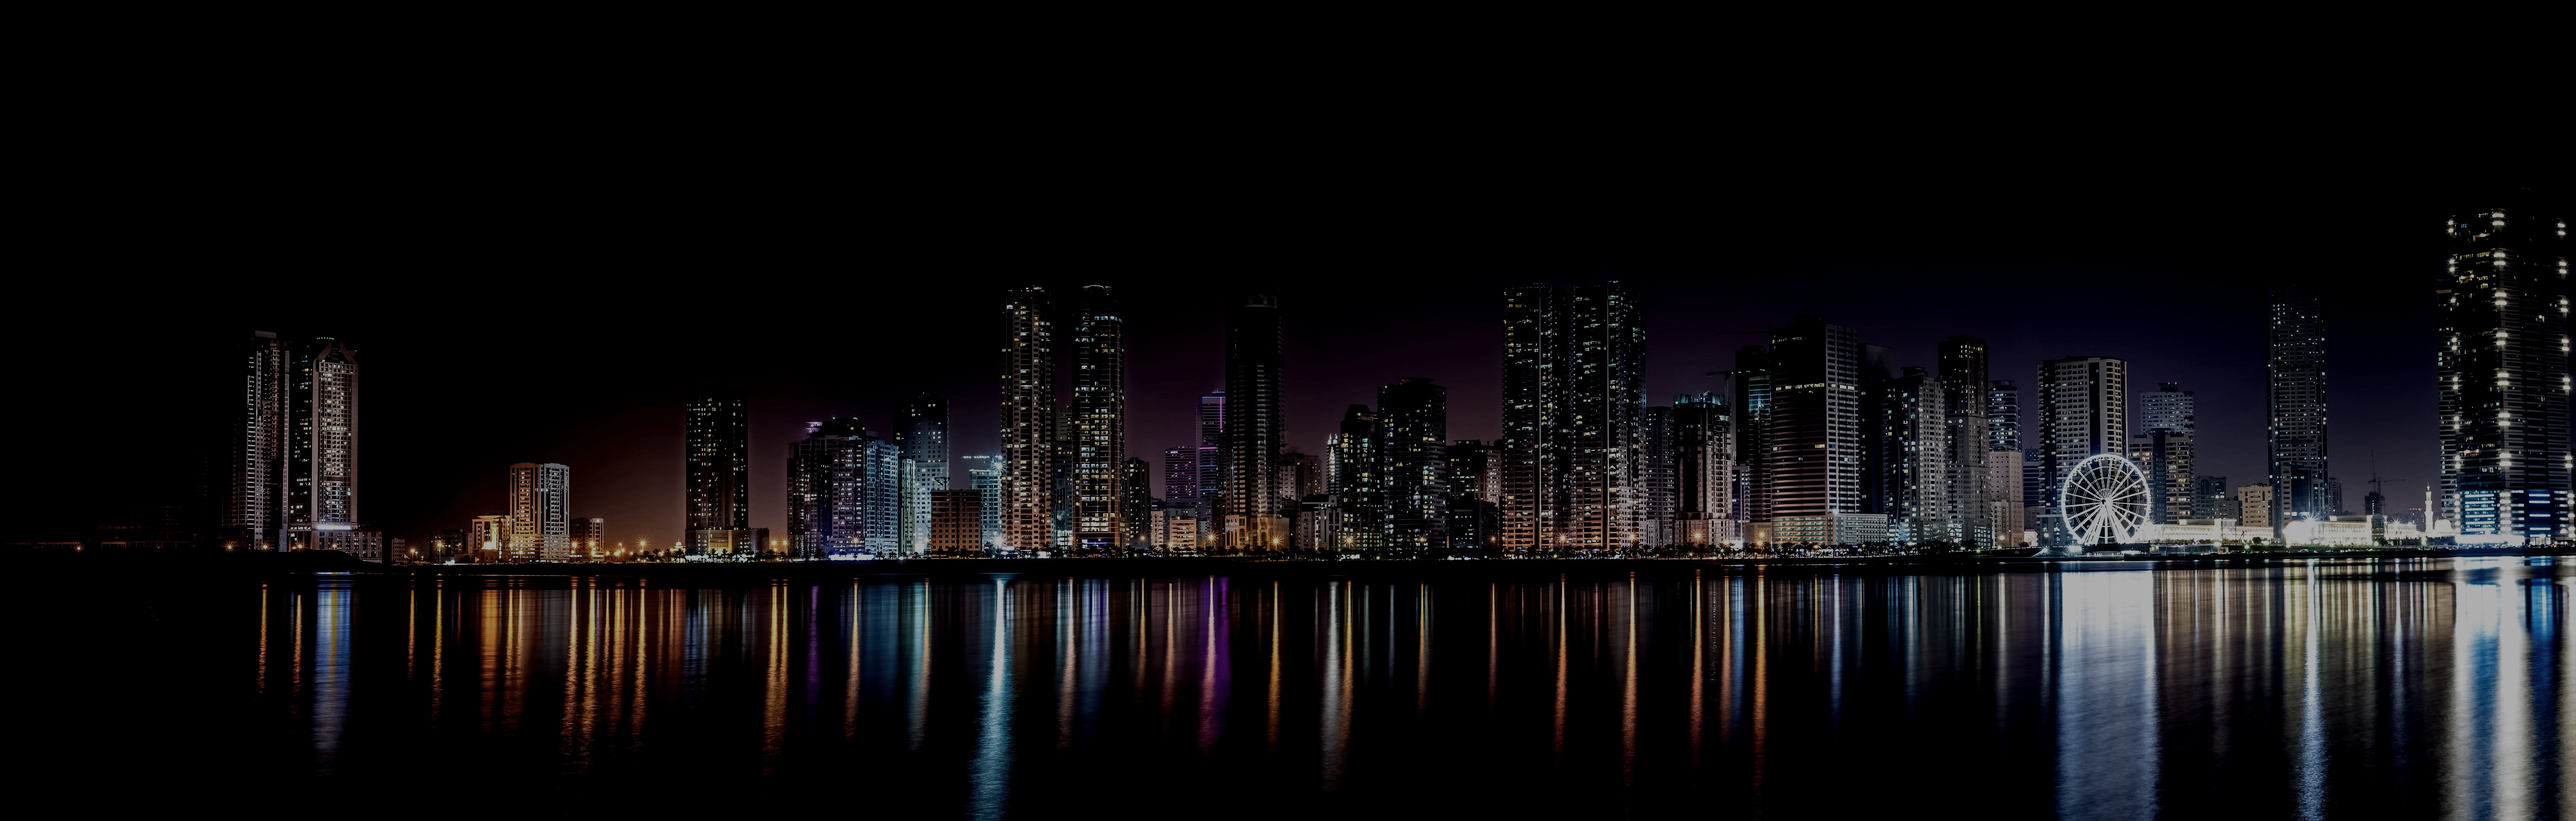
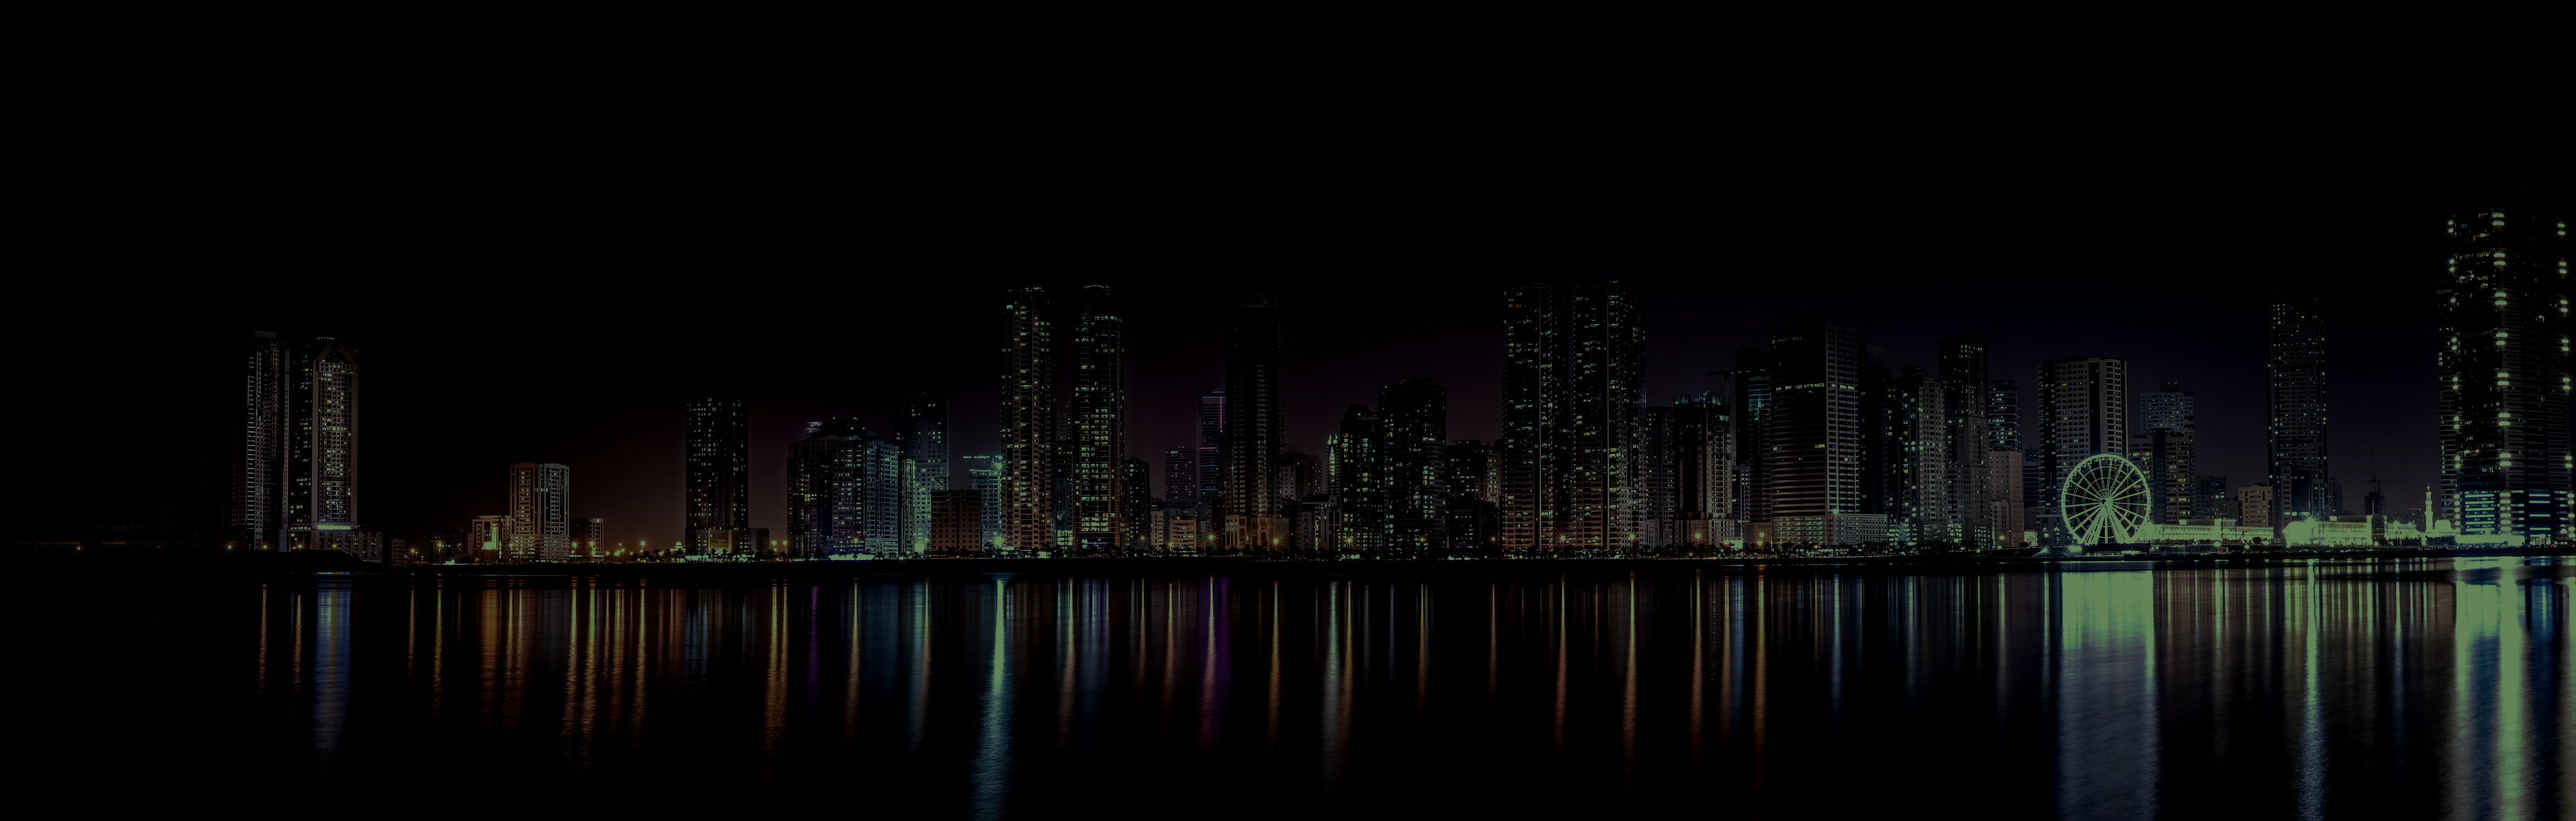
Edit the background imgs, add a background image to the footer

Changed region(s): [[0.0933, 0.3694, 1.0, 1.0], [0.9327, 0.3079, 1.0, 0.3694], [0.3731, 0.4002, 0.4353, 0.431]]

diff --git a/template2.html b/template2.html
@@ -76,13 +76,14 @@
     <section id="contact">
             <div class="wrapper">Contact</div>
     </section>
-    <footer></footer>
-<div id="copyright">
-        Copyright © 2009 - 2018 - All Rights Reserved - Domain Name
-        <br />
-        <br />
-        Template by Marcin Fortuna, inspired by http://www.free-css.com/free-css-templates/page224/tajam
-</div>
+    <footer>
+        <div id="copyright">
+            Copyright © 2009 - 2018 - All Rights Reserved - Domain Name
+            <br />
+            <br />
+            Template by Marcin Fortuna, inspired by http://www.free-css.com/free-css-templates/page224/tajam
+        </div>
+    </footer>
 <script src="https://code.jquery.com/jquery-3.2.1.slim.min.js" integrity="sha384-KJ3o2DKtIkvYIK3UENzmM7KCkRr/rE9/Qpg6aAZGJwFDMVNA/GpGFF93hXpG5KkN" crossorigin="anonymous"></script>
 <script src="https://cdnjs.cloudflare.com/ajax/libs/popper.js/1.12.9/umd/popper.min.js" integrity="sha384-ApNbgh9B+Y1QKtv3Rn7W3mgPxhU9K/ScQsAP7hUibX39j7fakFPskvXusvfa0b4Q" crossorigin="anonymous"></script>
 <script src="https://maxcdn.bootstrapcdn.com/bootstrap/4.0.0/js/bootstrap.min.js" integrity="sha384-JZR6Spejh4U02d8jOt6vLEHfe/JQGiRRSQQxSfFWpi1MquVdAyjUar5+76PVCmYl" crossorigin="anonymous"></script>    

diff --git a/css/template2.css b/css/template2.css
@@ -5,9 +5,6 @@ body {
 
 header, section, footer {
     width: 100%;
-}
-
-header, section {
     min-height: 100vh;
     height: auto;
 }
@@ -142,6 +139,12 @@ div.active {
 
 #watch {
     background-image: url('../images/template2/architecture-buildings-city-311012.jpg');
+    background-repeat: no-repeat;
+    background-size: cover;
+}
+
+footer {
+    background-image: url('../images/template2/2017-02-03-08-30-25.jpeg');
     background-repeat: no-repeat;
     background-size: cover;
 }

diff --git a/template2.js b/template2.js
@@ -11,7 +11,7 @@ $(document).scroll(function() {
             $("#menu_options").find("div[id='a_"+currentPos+"']").addClass("active");
         }
     }
-})
+});
 
 $(window).on("hashchange", function () {
     window.scrollTo(window.scrollX, window.scrollY + 1);
